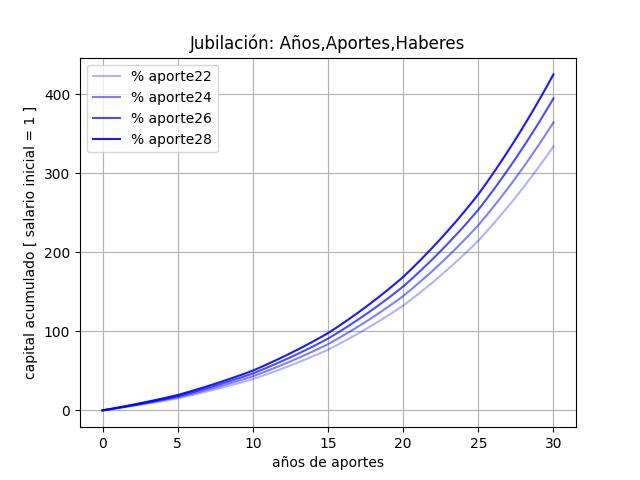
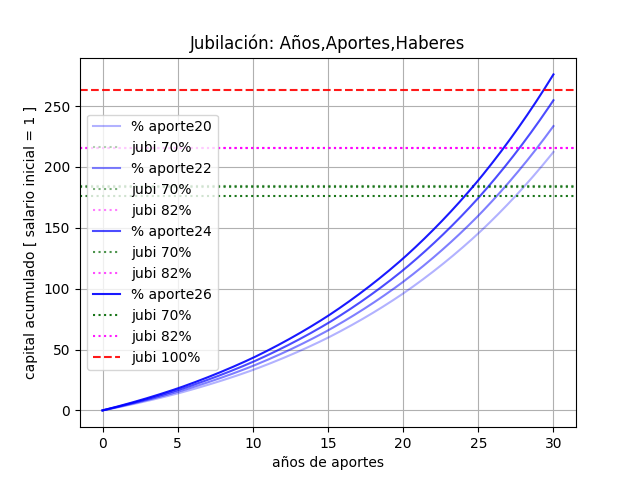
con clase

Changed region(s): [[0.0625, 0.125, 0.9062, 0.875]]

diff --git a/templates/index.html b/templates/index.html
@@ -8,12 +8,12 @@
 
       <form action="#" method="post">
         <p>Entrar Porcentaje Aportes:</p>
-        <p>Minimo (Empleado + Patronal) : <input type="text" name="aporte" id="ap1"></label> {{ indexarg[0] }} </p>
+        <p>Minimo (Empleado + Patronal) : <input type="text" name="aporte" id="ap1" value =  " {{  indexarg[0] }} "      > </p>
         <p>Entrar Interes Anual sobre Aportes:</p>
-        <p>Porcentaje&nbsp;&nbsp;&nbsp; : <input type="text" name="interes" id="ap2">  {{ indexarg[1] }}</p>
+        <p>Porcentaje&nbsp;&nbsp;&nbsp; : <input type="text" name="interes" id="ap2" value=" {{ indexarg[1] }}"></p>
         <p>Entrar Aumento Periódico:</p>
-        <p>Porcentaje : <input type="text" name="aumento" id="au1"></label> {{ indexarg[2] }}</p>
-        <p>Cada cuantos meses : <input type="text" name="periodo" id="au1"></label> {{ indexarg[3] }}</p>
+        <p>Porcentaje : <input type="text" name="aumento" id="au1" value=" {{ indexarg[2] }} "></p>
+        <p>Cada cuantos meses : <input type="text" name="periodo" id="au1" value=" {{ indexarg[3] }}"></p>
         <button type="submit" class="btn btn-primary">ENVIAR</button>
       </form>
     </div>
@@ -26,15 +26,18 @@
   </div>
 </div>
  
-<h3>
+<h5>
   <i>
     <center>
       <p>Aportes y Rentas </p>
-      <p>indexarg es {{ indexarg }}</p>
-      <p>A los 30 años el salario es de {{  indexarg[5] }} con 82% de {{ indexarg[4]  }}</p>
+      <p>indexarg es {{ indexarg[0:4] }}</p>
+      <p>{{ indexarg[4] }}</p>
+      <p>A los 30 años el aporte es de {{  indexarg[5] }} </p> 
+      <p> el salario final es {{  indexarg[6] }} </p>
+      <p>y la renta final es {{ indexarg[7]  }}</p>
     </center>
   </i>
-</h3>
+</h5>
 
 
 {% endblock %}

diff --git a/jubilib.py b/jubilib.py
@@ -16,130 +16,160 @@ cc=[(0,1,1,.3),(0,1,1,.5),(0,1,1,.7),(0,1,1,.9)]  #r g b alpha
 gg=[(0,.4,0,.3),(0,.4,0,.5),(0,.4,0,.7),(0,.4,0,.9)]  #r g b alpha
 ## vector de tonos de rojo
 rr=[(1,0,0,.3),(1,0,0,.5),(1,0,0,.7),(1,0,0,.9)]  #r g b alpha
+## vector de tonos de magenta
+mm=[(1,0,1,.3),(1,0,1,.5),(1,0,1,.7),(1,0,1,.9)]  #r g b alpha
 
-##
-hab=[0.70, 0.82, 1.00, 999999.0] # porcentajes y trick pct_ret 
-nhab=[0, 0, 0]  # mes en que se supera el porcentaje mes_ret 
-shab=[0, 0, 0]  # haberes del porcentaje sal_ret 
-ihab=0          # indice del porcentaje  ipct_ret   
 ## 
 
-## Calculo de la evolucion del capital y del salario
-## Evaluacion de retornos mensuales
+##------------------------------------
+## Clase portadora de los valores clave
+## elimina declarar global y compacta procesos
+class Hu :
+    h=[0.70, 0.82, 1.00, 999999.0] ## %s interesantes con infinito
+    hn=[0, 0, 0]    ## n meses en que retorno pasa % interesante del salario
+    hs=[0, 0, 0]    ## haber correspondiente al retorno 
+    hi=0            ## indice del % interesante y correspondiente n y s
+    totex=''        ## acumulaa la impresión de resultados
+    
+    def reinit(self) :
+        self.hn=[0, 0, 0]   
+        self.hs=[0, 0, 0]  
+        self.hi=0
+        
+    def hdehi(self) :
+        return self.h[self.hi]
 
+    def update(self,ene,sal,hbeta, capcorte) :
+        self.hn[self.hi]=ene
+        self.hs[self.hi]=self.h[self.hi]*sal
+        self.totex = self.totex +self.cototex(self,ene,sal,hbeta,capcorte)+'<br />'
+##      paso a buscar nivel de haberes siguiente
+        self.hi += 1
+        
+    def cototex(self,ene,sal,hbeta,capcorte) :
+        meses= '0'+str(ene%12)
+        coto = 'con % ap ' + str(round(hbeta*100,2)) 
+        coto = coto +' en '+str(int(ene/12))+'a'+meses[-2:]+'m'
+        coto = coto +' haber '+ str(round(self.h[self.hi]*sal,2))
+        coto = coto +' : '+str(round(self.h[self.hi]*100,2))+' % '
+        coto = coto +' del salario '+str(round(sal,2))
+        coto = coto +' , capital acumulado '+ str(round(capcorte,2)) 
+        return coto
+        
+## fin de la clase Hu
+##------------------------        
+        
+## Info : aumento en 30 años por categorid ded.excl. 1.79
+##      por antiguedad en 25 años 2.2 , total 3.93         
+"""  
+Calculo de la evolucion del capital y del salario
+Evaluacion de retornos mensuales
+
+"""
 def calcaum(beta,interesmensual,salario,pctaum=0,intervaum=0) :
 
     capvec=[0]
     captime=[0]
     cap=0
     erre=1+interesmensual
-    tasaaum=1+pctaum/100
 
-    global ihab,nhab,shab
-    ihab=0
-    nhab=[0, 0, 0]  
-    shab=[0, 0, 0]   
-## 
-
+    Hu.reinit(Hu)
+    
     for n in range(1,361) :
+        ## evolucion del ahorro
         apmes= salario*beta
         capvec.append((capvec[n-1])*(erre)+apmes)
         captime.append(n/12)
         cap=capvec[n]
-         
-        if n%intervaum == 0    :
-            salario=salario*tasaaum
 
-        if cap*interesmensual >= hab[ihab]*salario  :
-            nhab[ihab]=n
-            shab[ihab]=hab[ihab]*salario
-##          paso a buscar nivel siguiente
-            ihab += 1
- 
- 
+        ## aumento del salario 
+        if n%intervaum == 0    :
+            salario=salario*(1+pctaum)
+            
+        ## control de renta
+        if cap*interesmensual >= salario*Hu.hdehi(Hu)  :
+            Hu.update(Hu,n,salario,beta,cap)
+            
     return captime,capvec,salario
 ##-----------------------------
-def dibniveles(tx,crit,vecy,cocc,lastarg) :
-    if True :
-        print ('*******************************')
-        print ("i",ihab,"   h", hab)
-        print ("n",nhab)
-        print ("s",shab)
-        print ('*******************************')
-        
-    if crit<1e-6 :
-        if lastarg : 
-            tx.axhline(140, label= "jubi 70%",color = 'g',linestyle = 'dotted')        
-            tx.axhline(164, label= "jubi 82%",color = 'c',linestyle = 'dotted')
-            tx.axhline(200,label= "jubi 100%",color = 'r',linestyle = 'dashed')
-        return tx 
 
-    if ihab>0 :
-            nivel_70=vecy[nhab[0]]
-            tx.axhline(nivel_70, label= "jubi 70%",
-                        color =cc[cocc],linestyle = 'dotted')
-    if ihab>1 :
-        nivel_82=vecy[nhab[1]]
+def dibniveles(tx,vecy,cocc) :    
+
+    if Hu.hi >0 :
+        nivel_70=vecy[Hu.hn[0]]
+        tx.axhline(nivel_70, label= "jubi 70%",
+                        color =gg[cocc],linestyle = 'dotted')
+    if Hu.hi >1 :
+        nivel_82=vecy[Hu.hn[1]]
         tx.axhline(nivel_82, label= "jubi 82%",
-                    color =gg[cocc],linestyle = 'dotted')
-    if ihab>2 :
-        nivel_100 =vecy[nhab[2]]
+                    color =mm[cocc],linestyle = 'dotted')
+    if Hu.hi >2 :
+        nivel_100 =vecy[Hu.hn[2]]
         tx.axhline(nivel_100, label= "jubi 100%",
                     color =rr[cocc],linestyle = 'dashed')
     
-    return tx 
+    return tx
+##-----------------------------
 """
  jubilacion y aportes
 
 """
-def jubiploter(pctini=20 ,intanual=6,pctaum=0, intervaum=60):
+def jubiploter(indato=20 ,intanual=6,pctaum=0, intervaum=60):
 
     interesmensual=-1+(1+intanual/100)**(1/12)
     print ("interes anual",intanual, "int mes", interesmensual) 
 
     Sal=1
-
-    icc=0  ## indice de los tonos de colores para secuenciarlos
    
     ## recorrido del porcentaje de aporte mensual 
     ncurvas = 4
     split = 2
-    arango= range(pctini,pctini-1+ncurvas*split,split)
+    arango= range(indato,indato-1+ncurvas*split,split)
     lastarango=arango[-1]
 
     ##    
     
     fig,ax= plt.subplots()
-    icc=0
+    
     for pct in   arango :
+        icc=arango.index(pct)
         beta = 1.0*pct/100
         salario=Sal
+        
         cx,cy , newsal = calcaum(beta,interesmensual,salario,pctaum,intervaum)
                
         ax.plot(cx,cy,color =bb[icc],label="% aporte" + str(pct))
 
-        ax=dibniveles(ax,pctaum,cy,icc,pct==lastarango)
-
-        icc += 1
-
+        ax=dibniveles(ax,cy,icc)
         
     plt.legend()
     plt.grid()
     plt.xlabel("años de aportes")
     plt.ylabel("capital acumulado [ salario inicial = 1 ]")
     plt.title("Jubilación: Años,Aportes,Haberes")
-
+    
     print('salvo grafico sin mostrar')
 
     plt.savefig('assets/figUno.png')  
 
     plt.close() ## solucion al problema RuntimeError: main thread is not in main loop 
     
+    if len(Hu.totex) >0 :
+        testu=Hu.totex
+    else :
+        testu='El haber máximo obtenible no alcanza el porcentaje buscado'
+        
+    """ print("aporte= ",round(newsal*beta,3),
+          "salario final= ",round(newsal,3),
+          "renta final= ",round(cy[360]*interesmensual,3)
+          ) """
+      
 
-    
-    print("aporte",newsal*beta," y salario",newsal, "final")
 
-    return [ pctini, intanual, pctaum, intervaum, round(newsal*0.82,2), round(newsal,2)]
+    return [ indato, intanual, int(pctaum*100), intervaum,
+     testu,round(newsal*beta,3),round(newsal,3),
+     round(cy[360]*interesmensual,3)]
+##-----------------------------
 
 if __name__ == "__main__":
     jubiploter()

diff --git a/main.py b/main.py
@@ -52,8 +52,10 @@ def index():
             cint=int(request.form['aumento'])
             dint=int(request.form['periodo'])
             print(aint,bint,cint,dint)
+
             ## trabajo generar y salvar grafico
-            dato=jubiploter(aint,bint,cint,dint)    
+            # dato=jubiploter(aint,bint,cint,dint)
+            dato=jubiploter(aint,bint,cint/100,dint)     
             
             
             return render_template('index.html', indexarg=dato )
